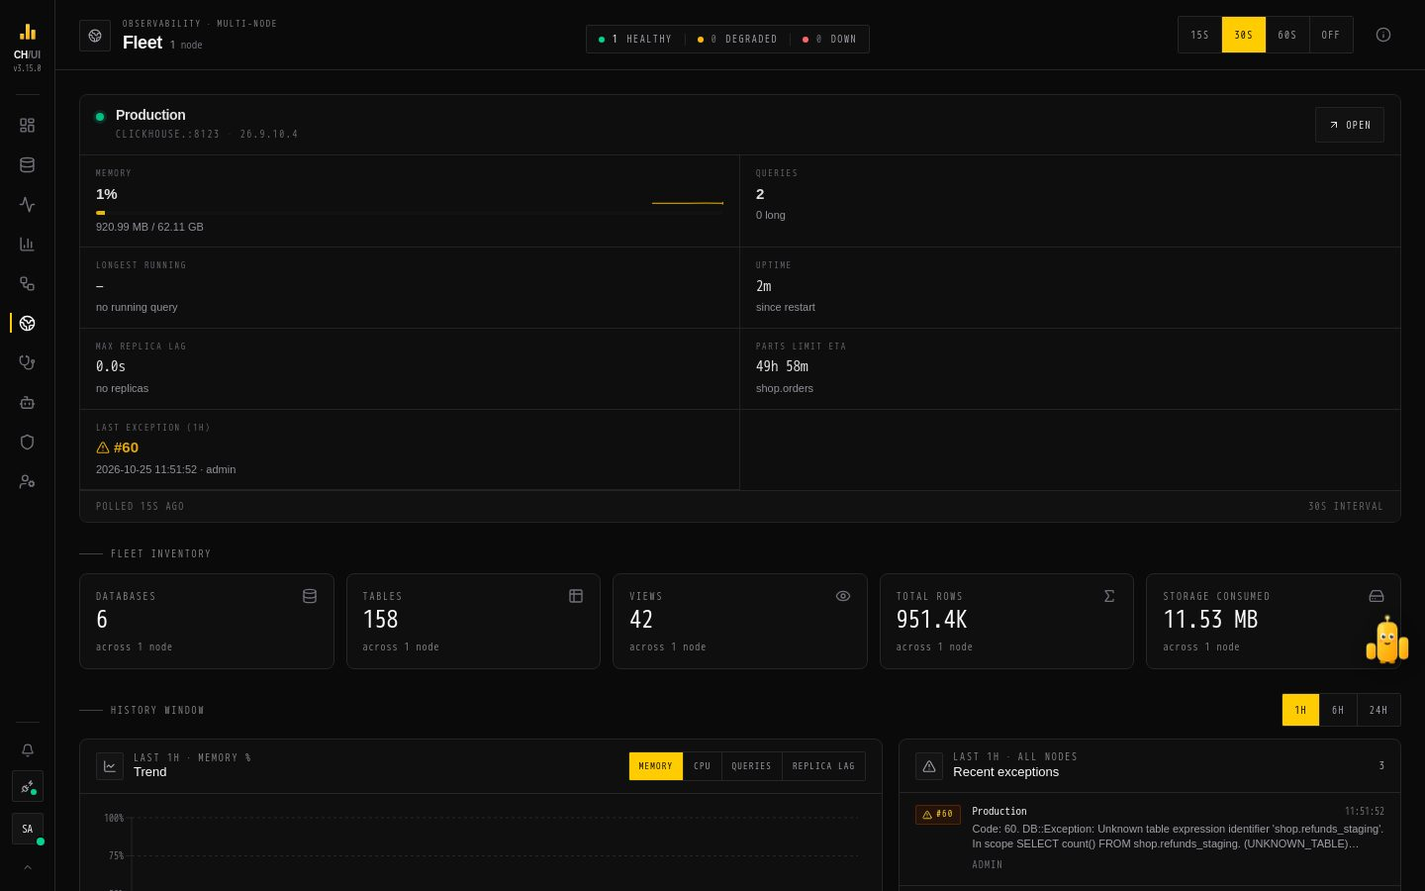
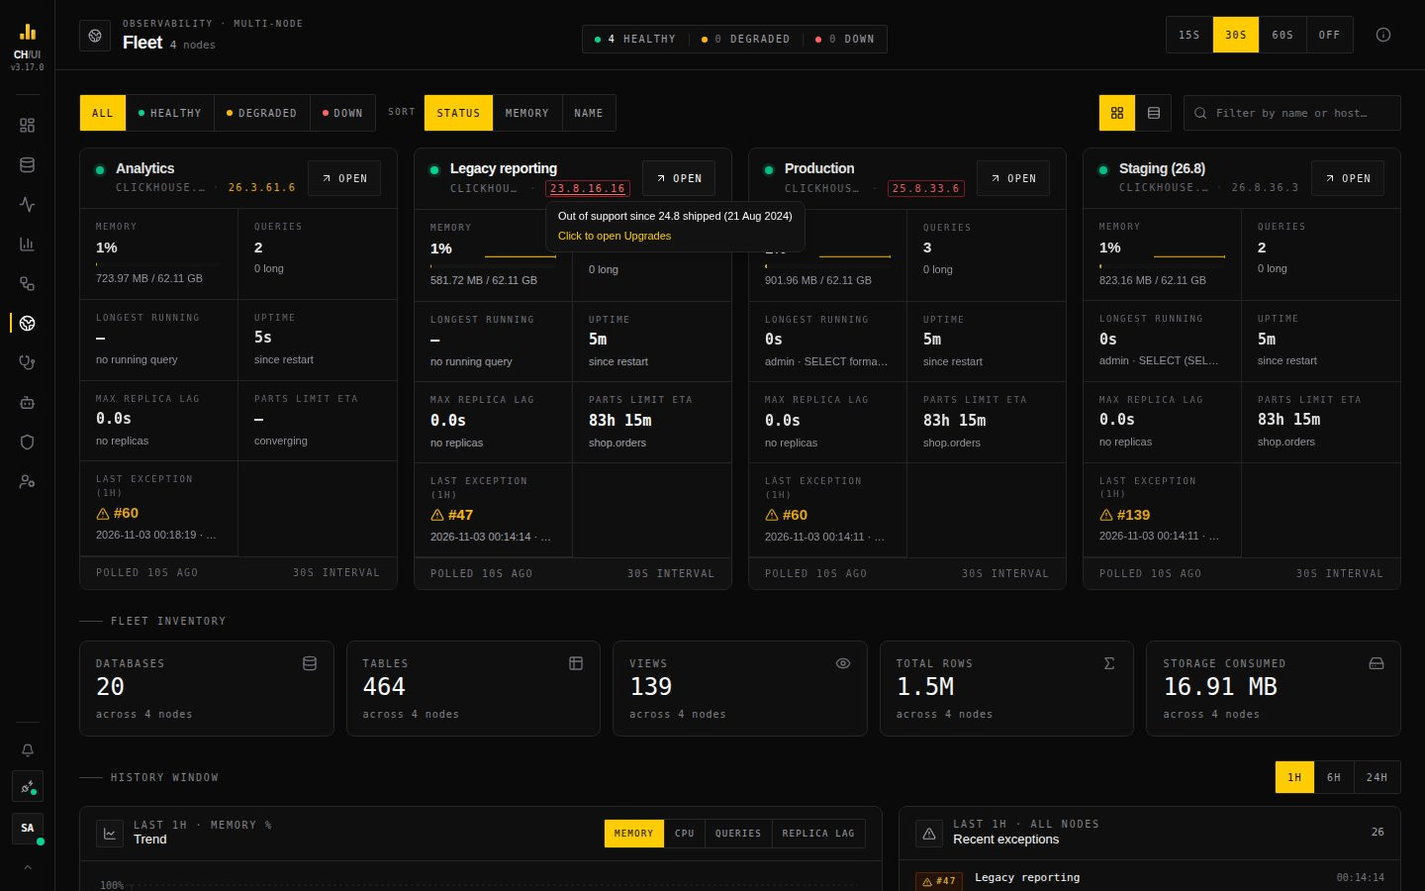
docs: announce 3.17 on the landing page, with new screenshots
The landing page's "New in 3.17" section still showed the 3.16 release
(Chobi, Undo, the dashboard canvas). It now shows MCP sign-in, agent
controls, connected apps, the upgrade check, trying queries on the
current server, and Fleet version colours. The hero boot log says 3.17.0
and migration 1.75.0.

New captures, taken from a local 3.17 build against real ClickHouse
23.8, 25.8, 26.3 and 26.8: Preferences > Connected apps (two agents
signed in through the OAuth flow), a "Tried here" upgrade finding, and
Fleet with red and amber versions (fleet.jpg). They are added to the
personal access tokens and Upgrades pages.

Docs and copy that still described the removed rollout tracker and
canary replay are updated: Features, glossary, overview, CLI examples,
performance, the plan-an-upgrade description and OBSERVE_SCRATCH_DATABASE.
The upgrades permission names said the same, so they are renamed (synced
on start, no migration) and the reference pages regenerated.

diff --git a/docs/portfolio/src/components/WhatsNew.tsx b/docs/portfolio/src/components/WhatsNew.tsx
@@ -1,6 +1,6 @@
 import { useState } from "react";
 import { motion, AnimatePresence } from "framer-motion";
-import { ArrowRight, type LucideIcon, Smile, Undo2, ShieldCheck, MessageSquare, LayoutGrid, History } from "lucide-react";
+import { ArrowRight, type LucideIcon, LogIn, ShieldCheck, Plug, ArrowUpCircle, FlaskConical, Server } from "lucide-react";
 import { Section, Container, SectionHeader } from "./Section";
 import { RELEASE, WHATS_NEW_PATH } from "../content/release";
 import { withBase } from "../docs-site/lib";
@@ -27,88 +27,88 @@ interface Showcase {
 
 const SHOWCASES: Showcase[] = [
   {
-    icon: Smile,
-    label: "Meet Chobi",
-    title: "One place for AI, on the edge of every screen",
-    pitch: "Chobi — CHouse UI + chibi, Japanese for small and cute — shows what needs a look across every connection you can reach, chats with CHouse Assistant, and lists what AI changed for you — and stays usable above any dialog.",
+    icon: LogIn,
+    label: "Sign in to MCP",
+    title: "Paste the URL. Sign in. The agent works as you.",
+    pitch: "Agents connect to CHouse MCP with the URL alone — even hosted ones with nowhere to paste a token. They open CHouse in your browser, you choose what they may change and for how long, and they get a token that only works on MCP, with your live access.",
     steps: [
-      "Click Chobi on the right edge, or press Ctrl/⌘ J from anywhere",
-      "Now lists open incidents, failed jobs, unreachable clusters and what waits for you",
-      "Select text or drop a table on Chobi to ask about it",
+      "Turn on AI Governance › MCP › Sign-in for agents",
+      "Add https://<your CHouse>/mcp to your agent",
+      "Sign in, pick its write tools and how long, then Allow",
     ],
-    shot: "chobi-now",
-    alt: "Chobi's panel open on the Now tab, listing what needs a look per connection",
-    docs: { label: "Chobi", href: "/docs/chobi/" },
-  },
-  {
-    icon: Undo2,
-    label: "Changes with Undo",
-    title: "Ask for a change. Take it back if you need to.",
-    pitch: "CHouse Assistant makes the changes you ask for, as you, through the same checks as the UI. Changes that are easy to reverse run at once and show Undo for 24 hours.",
-    steps: [
-      "Ask: “keep an eye on shop.orders until tomorrow”",
-      "The watch runs at once — the receipt says Done · Undo",
-      "Undo from the chat, Chobi's Activity tab or the CLI",
-    ],
-    shot: "chobi-undo",
-    alt: "A chat reply with a Done · Undo receipt for a table watch",
-    docs: { label: "Let Chobi make a change", href: "/docs/guide-first-ai-change/" },
+    shot: "oauth-consent",
+    alt: "The consent page an agent opens: its name, where it returns to, write tools and how long access lasts",
+    docs: { label: "Sign in with OAuth", href: "/docs/mcp/#sign-in-with-oauth" },
   },
   {
     icon: ShieldCheck,
-    label: "Checked by tier",
-    title: "The bigger the change, the more it asks",
-    pitch: "Changes undo can't reverse ask once. Privileged or destructive ones — DROP, roles, policies — need a second person. A production connection makes every change one tier stricter.",
+    label: "Agent controls",
+    title: "Decide which agents get in, and for how long",
+    pitch: "Sign-in starts off. Administrators decide whether pasted tokens still work on MCP, hold new agents until they are approved, limit where agents may return to and cap how long access lasts — and see every agent and who is connected through it.",
     steps: [
-      "Ask for a new table — the reply pauses on an approval card",
-      "Approve, edit the arguments, or reject",
-      "Second-approver requests wait in AI Governance › Approvals",
+      "AI Governance › MCP › Sign-in for agents",
+      "Approve new agents, or limit their return addresses",
+      "Block an agent, or revoke one person's access",
     ],
-    shot: "chobi-approval",
-    alt: "An approval card in the chat for creating a table, with Approve, Edit and Reject",
-    docs: { label: "Approvals & tiers", href: "/docs/ai-approvals/" },
+    shot: "agents-mcp-sign-in",
+    alt: "Sign-in for agents in AI Governance › MCP, with the agents list and who is connected",
+    docs: { label: "Connect an AI agent", href: "/docs/guide-connect-an-agent/" },
   },
   {
-    icon: MessageSquare,
-    label: "Approve from chat",
-    title: "Slack, Google Chat and Telegram buttons that run as you",
-    pitch: "Chat app channels edit what they posted — an alert shows resolved, a request shows who decided it — and carry Acknowledge, Snooze, Approve and Reject buttons, checked like a click in CHouse.",
+    icon: Plug,
+    label: "Connected apps",
+    title: "Every agent you let in, with Revoke",
+    pitch: "Agents you signed in are listed next to your tokens, with their write tools, when access ends and when they last called CHouse. Change what one may do, or revoke it at once.",
     steps: [
-      "Admin › Alerting › Channels › Add channel, in App mode",
-      "Say who may act from the channel",
-      "Turn on Need You alerts for approvals that wait on a person",
+      "Open Preferences › Personal access tokens",
+      "Check each agent's write tools, expiry and last use",
+      "Use the wrench to change its tools, the bin to revoke it",
     ],
-    shot: "admin-alerting-add-channel",
-    alt: "The Add channel dialog in Admin › Alerting, connecting a Slack app",
-    docs: { label: "Approve from Slack", href: "/docs/guide-approve-from-chat/" },
+    shot: "preferences-connected-apps",
+    alt: "Connected apps in Preferences: two agents signed in with OAuth above a personal access token",
+    docs: { label: "Connected apps", href: "/docs/personal-access-tokens/#connected-apps" },
   },
   {
-    icon: LayoutGrid,
-    label: "Dashboard canvas",
-    title: "Place panels anywhere. Or let Tidy up do it.",
-    pitch: "Drag and resize panels on a 24-column grid, add Markdown text and section headings, and lay a dashboard out in one click. Existing dashboards were converted on upgrade.",
+    icon: ArrowUpCircle,
+    label: "Upgrade check",
+    title: "See what a ClickHouse upgrade changes for your workload",
+    pitch: "Upgrades says whether your version is still supported and which versions to move to, then checks a target against your schema, settings and 30 days of queries: exactly against a server on that line, or from the release notes.",
     steps: [
-      "Open a dashboard and choose Edit",
-      "Drag by the grip, resize from any edge, add text or headings",
-      "Tidy up: values first, then trends, breakdowns and tables",
+      "Open Monitoring › Upgrades and pick a target",
+      "Compare with a connection on that line, or the notes",
+      "Work through Breaks, then changed defaults; Copy as Markdown",
     ],
-    shot: "dashboards-canvas",
-    alt: "A dashboard in edit mode on the canvas, with Tidy up in the toolbar",
-    docs: { label: "Build a dashboard", href: "/docs/guide-build-a-dashboard/" },
+    shot: "monitoring-upgrades",
+    alt: "Monitoring › Upgrades after an exact check of 25.8 against 26.8, with findings by severity",
+    docs: { label: "Check an upgrade", href: "/docs/monitoring-upgrades/#check-an-upgrade" },
   },
   {
-    icon: History,
-    label: "What changed & why",
-    title: "Charts that mark what changed — and explain a spike",
-    pitch: "Line and area charts mark DDL, upgrades, settings changes, new writers, alerts, incidents, fixes and notes. Select a range to zoom, add a note, or ask Chouse AI to explain it.",
+    icon: FlaskConical,
+    label: "Try it on this server",
+    title: "Find the queries the new analyzer breaks, before you upgrade",
+    pitch: "A check plans your top 200 read-only query shapes on your current server with the target's settings, using EXPLAIN. Nothing runs. A query that would fail shows with the setting that breaks it, the error and who runs it.",
     steps: [
-      "Hover a marker on the time axis for what happened",
-      "Drag across a chart to select a range",
-      "Explain this spike — the likely cause, with its evidence",
+      "Leave “Also try my top 200 read-only query shapes…” on",
+      "Click Check",
+      "Open the Tried here finding, fix the queries, then stop turning the analyzer off",
     ],
-    shot: "dashboards-annotations",
-    alt: "A dashboard chart with annotation markers and a note along the time axis",
-    docs: { label: "Annotations and notes", href: "/docs/dashboards/#annotations-and-notes" },
+    shot: "monitoring-upgrades-try",
+    alt: "A Tried here finding: two query shapes that fail with the new analyzer, with their errors, users and run counts",
+    docs: { label: "Try it on this server", href: "/docs/monitoring-upgrades/#try-it-on-this-server" },
+  },
+  {
+    icon: Server,
+    label: "Fleet versions",
+    title: "Spot the clusters that need an upgrade",
+    pitch: "On Fleet, a version turns red when its line is out of support and amber when a newer patch is out. Hover it for the reason; click it to check an upgrade for that connection.",
+    steps: [
+      "Set UPGRADE_CHECK_ENABLED (Helm observability.upgradeCheckEnabled)",
+      "Open Fleet",
+      "Click a red or amber version to open Upgrades",
+    ],
+    shot: "fleet",
+    alt: "Fleet with four connections: two versions out of support in red, one behind on patches in amber",
+    docs: { label: "Fleet view", href: "/docs/fleet/" },
   },
 ];
 
@@ -123,7 +123,7 @@ export default function WhatsNew() {
       <Container>
         <SectionHeader
           eyebrow={`New in ${RELEASE.version}`}
-          title="Chobi, AI that acts with Undo, and dashboards that explain themselves."
+          title="AI agents that sign in, and upgrades checked against your workload."
           description="Real screens from this release. Pick one to see it and how to try it."
           action={
             <a

diff --git a/docs/portfolio/src/components/Features.tsx b/docs/portfolio/src/components/Features.tsx
@@ -36,7 +36,7 @@ const GROUPS: FeatureGroup[] = [
       { icon: LayoutGrid, title: "Fleet view", desc: "Every connection side by side — status, memory, lag, trends — sampled once by the server, not by every browser" },
       { icon: TrendingUp, title: "Performance regressions", desc: "Each query shape against its own 14-day baseline, lined up with the upgrades, DDL and setting changes around it" },
       { icon: HardDrive, title: "Capacity & cost", desc: "Disk forecasts per node, top growth, codec savings measured on samples, and cost by consumer" },
-      { icon: ArrowUpCircle, title: "Upgrade readiness", desc: "A target version checked against your workload, replayed on a canary, then tracked through rollout gates" },
+      { icon: ArrowUpCircle, title: "Upgrade check", desc: "A target version checked against your schema, settings and queries — exactly against a server on that line, or from the release notes — before you upgrade" },
       { icon: Activity, title: "Ten monitoring tabs", desc: "Live queries, query logs, metrics, parts, schema advisor, cluster, errors — no exporter to install" },
       { icon: BellRing, title: "Alerts", desc: "Memory, long queries and too-many-parts ETA to Slack, Google Chat, Telegram, email or webhooks — with an AI root-cause report on breach, and one hub that shows where each alert went" },
       { icon: Timer, title: "Collection schedule", desc: "How often each collector samples, for every connection or one — incremental reads keep the load on ClickHouse low" },

diff --git a/docs/portfolio/src/content/reference/config-keys.ts b/docs/portfolio/src/content/reference/config-keys.ts
@@ -113,7 +113,7 @@ export const CONFIG_KEYS: ConfigKey[] = [
   { name: "OBSERVE_RUN_TIMEOUT_SECONDS", section: "Data observability", default: "120", description: "Time limit for one collector run before it is abandoned." },
   { name: "OBSERVE_INCIDENT_HOLD_SECONDS", section: "Data observability", default: "300", description: "Seconds a pipeline must stay bad before it opens an incident, so brief blips do not page. `0` opens on the first bad sample." },
   { name: "OBSERVE_CAPACITY_THRESHOLD", section: "Data observability", default: "0.85", description: "Disk fill ratio that capacity forecasts warn about (0–1)." },
-  { name: "OBSERVE_SCRATCH_DATABASE", section: "Data observability", default: "chouse_scratch", description: "Database used for codec trials and upgrade replays. Needs write access for `upgrades:run`." },
+  { name: "OBSERVE_SCRATCH_DATABASE", section: "Data observability", default: "chouse_scratch", description: "Database used for codec trials. Needs write access for `upgrades:run`." },
   { name: "UPGRADE_CHECK_ENABLED", section: "Data observability", default: "false", description: "Lets **Monitoring › Upgrades** fetch release data: release dates and support from GitHub (`raw.githubusercontent.com`), the newest patch per line from Docker Hub (`hub.docker.com`), and the release notes between two versions. Off, the tab still compares with a connection already on the target line." },
 
   // AI usage (ADR 0020)

diff --git a/docs/portfolio/src/docs-site/manifest.ts b/docs/portfolio/src/docs-site/manifest.ts
@@ -269,7 +269,7 @@ export const DOC_SECTIONS: DocSection[] = [
           { slug: "guide-build-a-chat-agent", title: "Build a chat agent", description: "A team chat agent with its own data skill and tools, gated by permission, optionally routed to by Auto." },
           { slug: "guide-connect-an-agent", title: "Connect an AI agent", description: "Turn MCP on, give Claude Code a narrow token or let an agent sign in, and watch and limit what it does." },
           { slug: "guide-cli-in-ci", title: "Use the CLI in CI", description: "A scoped token, JSON output and exit codes for reports and data checks in a pipeline." },
-          { slug: "guide-plan-an-upgrade", title: "Plan a ClickHouse upgrade", description: "Choose a target, check what it changes for your workload, replay on a canary and watch the rollout." },
+          { slug: "guide-plan-an-upgrade", title: "Plan a ClickHouse upgrade", description: "Choose a target, check what it changes for your workload, fix the queries the new settings break and watch the rollout." },
           { slug: "guide-least-privilege-role", title: "Give a team least-privilege access", description: "A data access policy and a custom role that let a team read one database and nothing else." },
         ],
       },

diff --git a/docs/portfolio/src/components/Hero.tsx b/docs/portfolio/src/components/Hero.tsx
@@ -16,8 +16,8 @@ const BOOT_LOG = [
   { kind: "ok", text: "✓ chouse-ui          Started   0.6s" },
   { kind: "muted", text: "" },
   { kind: "muted", text: "[RBAC]  Initializing RBAC system…" },
-  { kind: "muted", text: "[RBAC]    App version: 3.16.0 · postgres" },
-  { kind: "muted", text: "[RBAC]    Migrations up to date · 1.74.0" },
+  { kind: "muted", text: "[RBAC]    App version: 3.17.0 · postgres" },
+  { kind: "muted", text: "[RBAC]    Migrations up to date · 1.75.0" },
   { kind: "muted", text: "[Fleet]   3 clusters · 9 nodes · all healthy" },
   { kind: "muted", text: "[Queries] 1,204 shapes on baseline · 1 regression" },
   { kind: "muted", text: "[Data]    412 tables · 9 pipelines · lineage built" },

diff --git a/packages/server/src/rbac/services/seed.ts b/packages/server/src/rbac/services/seed.ts
@@ -300,8 +300,8 @@ export const PERMISSION_DISPLAY_NAMES: Record<string, string> = {
   [PERMISSIONS.PERFORMANCE_VIEW]: 'View Query Performance',
   [PERMISSIONS.CAPACITY_VIEW]: 'View Capacity',
   [PERMISSIONS.COST_VIEW]: 'View Cost',
-  [PERMISSIONS.UPGRADES_VIEW]: 'View Upgrade Readiness',
-  [PERMISSIONS.UPGRADES_RUN]: 'Run Upgrade Replays and Codec Trials',
+  [PERMISSIONS.UPGRADES_VIEW]: 'View Upgrades',
+  [PERMISSIONS.UPGRADES_RUN]: 'Run Upgrade Checks and Codec Trials',
   [PERMISSIONS.REMEDIATION_PROPOSE]: 'Propose Remediation Actions',
   [PERMISSIONS.REMEDIATION_APPROVE]: 'Approve Remediation Actions',
   [PERMISSIONS.REMEDIATION_APPROVE_HIGH]: 'Approve High-Risk Remediation Actions',

diff --git a/docs/portfolio/src/content/docs/glossary.md b/docs/portfolio/src/content/docs/glossary.md
@@ -8,7 +8,6 @@ Terms used across CHouse UI and these docs.
 | **Approval class** | Whether a [fix](/docs/data-incidents/#fixes-with-approval) is low-impact (one approver, `remediation:approve`) or high-impact (two approvers, `remediation:approve_high`) |
 | **Baseline** | What CHouse UI learned is normal for a table — write cadence and hourly volume — or for a query shape's latency |
 | **Blast radius** | Everything downstream of an incident's root cause: tables, promises, jobs, saved queries and agents |
-| **Canary** | A connection on a newer ClickHouse version used to replay your workload before [upgrading](/docs/monitoring-upgrades/) |
 | **Chobi** | The CHouse buddy on the screen edge: what needs a look, the chat with CHouse Assistant, and what AI changed for you. The name is CHouse UI + *chibi*, Japanese for small and cute. See [Chobi](/docs/chobi/) |
 | **Collector** | The server component that reads ClickHouse metadata on a schedule and stores the evidence. See [How data is watched](/docs/data-observability/) |
 | **Connection** | A ClickHouse server CHouse UI talks to, with encrypted credentials. See [Connections](/docs/connections/) |
@@ -17,6 +16,7 @@ Terms used across CHouse UI and these docs.
 | **Data access policy** | A named set of database/table rules, per connection, attached to roles. See [Data access rules](/docs/data-access-rules/) |
 | **Deployment** (AI) | A named model configuration people use, pointing at a provider model. See [AI models](/docs/ai-models/) |
 | **Evidence** | What the collector stored from system tables, which every status, root cause and suggestion is computed from |
+| **Exact check** | An [upgrade check](/docs/monitoring-upgrades/#check-an-upgrade) that compares your server's system tables with another of your connections that already runs the target version |
 | **Fix** / **remediation action** | One action from the closed remediation catalog, run only after approval |
 | **Health notice** | A note attached to an agent's query result when a table it read has an open incident or is degraded |
 | **Incident** | Something wrong with the data, a pipeline or the engine — *open*, *acknowledged* or *recovered*. See [Incidents](/docs/data-incidents/) |

diff --git a/docs/portfolio/src/content/docs/overview.md b/docs/portfolio/src/content/docs/overview.md
@@ -6,7 +6,7 @@ Open source under Apache 2.0. It runs next to your clusters with nothing to inst
 
 | Area | What you get |
 | --- | --- |
-| **Monitoring** | Ten [Monitoring](/docs/monitoring-overview/) tabs from live queries to [performance regressions](/docs/monitoring-performance/), [capacity forecasts](/docs/monitoring-capacity/) and [upgrade readiness](/docs/monitoring-upgrades/); every cluster at once on [Fleet](/docs/fleet/) with [alerts](/docs/alerting/) |
+| **Monitoring** | Ten [Monitoring](/docs/monitoring-overview/) tabs from live queries to [performance regressions](/docs/monitoring-performance/), [capacity forecasts](/docs/monitoring-capacity/) and [upgrade checks](/docs/monitoring-upgrades/); every cluster at once on [Fleet](/docs/fleet/) with [alerts](/docs/alerting/) |
 | **Data observability** | Learned freshness and volume for [every table](/docs/data-observability/), [pipelines](/docs/data-pipelines/) from Kafka to S3Queue in one status vocabulary, [lineage](/docs/data-lineage/) without instrumentation, [promises](/docs/data-health/) and [coverage](/docs/data-coverage/) |
 | **Root cause & fixes** | [Incidents](/docs/data-incidents/) traced across layers with their blast radius, investigation notebooks, and fixes from a closed catalog that run only after approval |
 | **Dashboards** | [Dashboards](/docs/dashboards/) on a free canvas with text and heading panels, charts that mark what changed and explain a spike, compare with last week, snapshots, scheduled reports, version history and [Grafana import](/docs/dashboards/#import-from-grafana); [drafted with AI](/docs/dashboards-ai/) |

diff --git a/docs/portfolio/src/content/docs/cli.md b/docs/portfolio/src/content/docs/cli.md
@@ -69,14 +69,15 @@ chouse scheduled list && chouse health incidents
 chouse alert rules && chouse audit list --limit 20
 ```
 
-[Performance, capacity and upgrades](/docs/monitoring-performance/) — read-only; assessments, replays and the collection schedule are changed in the UI:
+[Performance, capacity and upgrades](/docs/monitoring-performance/) — read-only; upgrade checks and the collection schedule are run and changed in the UI:
 
 ```bash
 chouse perf regressions -c prod              # query shapes slower than their own baseline
 chouse perf shape <fingerprint> -c prod      # one shape's hourly history
 chouse capacity -c prod --view growth        # also: forecasts (default), cold, trials
-chouse upgrades list -c prod && chouse upgrades rollout
-chouse upgrades get <assessmentId> -o yaml   # every rule and its evidence
+chouse upgrades status -c prod              # support, newest patch, where to go next
+chouse upgrades fleet                        # every connection's version and support
+chouse upgrades get <checkId> -o yaml        # one check's findings and evidence
 chouse collectors status -c prod             # last run, last error, missing grants
 chouse collectors schedule -c prod           # how often each collector runs, bytes read per day
 ```

diff --git a/docs/portfolio/src/content/docs/monitoring-upgrades.md b/docs/portfolio/src/content/docs/monitoring-upgrades.md
@@ -71,6 +71,8 @@ When an AI model is set up and you have `ai:optimize`, Chouse AI reads the notes
 
 A query that fails only with the target's settings becomes a **Breaks** finding, grouped by the setting that breaks it, with the error, its callers and how often it runs. A query that fails today too is skipped. Queries whose plan changes are one **Heads-up**: they still work, so watch them in [Performance](/docs/monitoring-performance/) after the first host. The coverage line says how many queries were tried, which settings were applied, and any your server refused.
 
+![A query that fails with the target's settings](/docs/img/app/monitoring-upgrades-try.jpg "Two query shapes that the new analyzer rejects, with the error, the users and clients that run them, and how often")
+
 Nothing is executed and no data is read: every statement is read-only, limited to 10 seconds, capped in rows read, and run one at a time within one minute. The query text is shown only to people with `query:history:view:all`.
 
 It can't test code your server doesn't have yet, such as a function the target removes (the check's diff and notes cover that), queries outside the top 200, or speed.

diff --git a/docs/portfolio/src/content/docs/configuration-env.md b/docs/portfolio/src/content/docs/configuration-env.md
@@ -87,7 +87,7 @@ Every setting the server reads, with its default. Set them as environment variab
 | `OBSERVE_RUN_TIMEOUT_SECONDS` | `120` | Time limit for one collector run before it is abandoned. |
 | `OBSERVE_INCIDENT_HOLD_SECONDS` | `300` | Seconds a pipeline must stay bad before it opens an incident, so brief blips do not page. `0` opens on the first bad sample. |
 | `OBSERVE_CAPACITY_THRESHOLD` | `0.85` | Disk fill ratio that capacity forecasts warn about (0–1). |
-| `OBSERVE_SCRATCH_DATABASE` | `chouse_scratch` | Database used for codec trials and upgrade replays. Needs write access for `upgrades:run`. YAML: `observe.scratch_database`. |
+| `OBSERVE_SCRATCH_DATABASE` | `chouse_scratch` | Database used for codec trials. Needs write access for `upgrades:run`. YAML: `observe.scratch_database`. |
 | `UPGRADE_CHECK_ENABLED` | `false` | Lets **Monitoring › Upgrades** fetch release data: release dates and support from GitHub (`raw.githubusercontent.com`), the newest patch per line from Docker Hub (`hub.docker.com`), and the release notes between two versions. Off, the tab still compares with a connection already on the target line. |
 
 ## AI usage

diff --git a/docs/portfolio/src/content/docs/fleet.md b/docs/portfolio/src/content/docs/fleet.md
@@ -13,7 +13,8 @@ screenshot: fleet
 | Area | Shows |
 | --- | --- |
 | Status counts | How many connections are **healthy**, **degraded** or **down** — click one to filter |
-| Cards (or compact rows) | Per connection: status, memory use, active queries, the longest-running query, replica lag and per-node trend sparklines |
+| Cards (or compact rows) | Per connection: status, ClickHouse version, memory use, active queries, the longest-running query, replica lag and per-node trend sparklines |
+| Version colour | Red when the connection's ClickHouse line is out of support, amber when a newer patch is out — hover for why, click to open [Upgrades](/docs/monitoring-upgrades/#fleet). Needs `UPGRADE_CHECK_ENABLED` |
 | Fleet inventory | Databases and tables at a glance |
 | Fleet trends | Memory and lag over the selected history window |
 | Recent exceptions | The latest errors from `system.errors` across the fleet |
